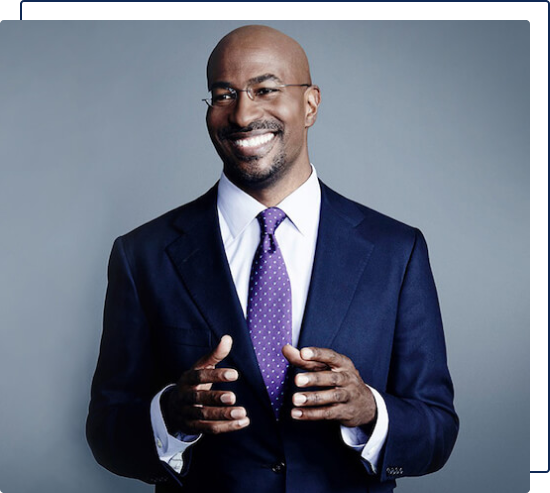
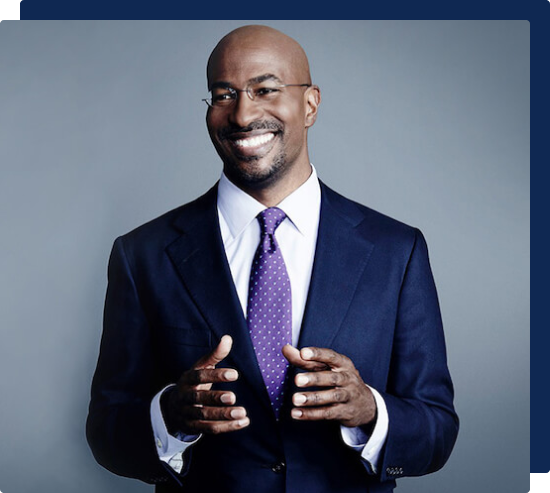
Design Changes made to page
Footer photo border changed.
Nav bar re-organized and animated.
Home page elements restructured.

Changed region(s): [[0.0309, 0.0, 1.0, 0.9736]]

diff --git a/index.html b/index.html
@@ -53,8 +53,8 @@
     </a>
       <ul id="myLinks">
         <li>Home</li>
-        <li>Services</li>
         <li>About</li>
+        <li>Services</li>        
         <li>Blog</li>
         <li id="contact">Contact</li>
       </ul>
@@ -63,7 +63,7 @@
     <div class="container">
       <section class="hero">
         <div class="text">
-          <h1>We help you grow your maritime company</h1>
+          <blockquote><h1>We help you grow your maritime company</h1></blockquote>
           <p>
             We help you to navigate the world of potential in your martine based
             company
@@ -73,39 +73,6 @@
         <div class="photo">
           <img src="Assets\Hero_photo.png" />          
         </div>
-      </section>
-
-      <section class="explore">
-        <h2>Explore how we can help you</h2>
-        <span>The ultimate help for your company</span>
-
-        
-          <div class="service-grid">
-            <div class="service">
-              <img src="Assets/Coaching.png" /><span>Coaching</span
-              ><span>The ultimate help for your company</span>
-            </div>
-            <div class="service">
-              <img src="Assets/Consulting.png" /><span>Consulting</span
-              ><span>The ultimate help for your company</span>
-            </div>
-            <div class="service">
-              <img src="Assets/Workshops.png" /><span>Workshops</span
-              ><span>The ultimate help for your company</span>
-            </div>
-          </div>
-        
-      </section>
-      
-      
-      <section id="philosophy">
-        
-        <h2>Our Philosophy</h2>
-        <p>
-          We break down barriers so teams can focus on what matters - working
-          together to create a working environment that they love.
-        </p>
-        
       </section>
 
       <section id="grow">
@@ -1161,6 +1128,41 @@
         </div>
       </section>
 
+      <section class="explore">
+        <h2>Explore how we can help you</h2>
+        <span>The ultimate help for your company</span>
+
+        
+          <div class="service-grid">
+            <div class="service">
+              <img src="Assets/Coaching.png" /><span>Coaching</span
+              ><span>The ultimate help for your company</span>
+            </div>
+            <div class="service">
+              <img src="Assets/Consulting.png" /><span>Consulting</span
+              ><span>The ultimate help for your company</span>
+            </div>
+            <div class="service">
+              <img src="Assets/Workshops.png" /><span>Workshops</span
+              ><span>The ultimate help for your company</span>
+            </div>
+          </div>
+        
+      </section>
+      
+      <!--
+      <section id="philosophy">
+        
+        <h2>Our Philosophy</h2>
+        <p>
+          We break down barriers so teams can focus on what matters - working
+          together to create a working environment that they love.
+        </p>
+        
+      </section>
+    -->
+      
+
       <section id="quote">
         <div>
           <img src="Assets/Footer Photo.png">
@@ -1168,7 +1170,7 @@
         <div>
           <figure>
             <blockquote>We help you to navigate the world of potential in your martine based company</blockquote>
-            <figcaption>Name Person</figcaption>
+            <figcaption>Our Philosophy</figcaption>
           </figure>
         </div>
       </section>

diff --git a/styles.css b/styles.css
@@ -36,7 +36,7 @@ nav {
     display: flex;
     justify-content: space-between;
     align-items: center;
-    color: hsla(0, 0%, 100%, 0.8);
+    color: hsla(0, 0%, 100%, 1);
     height: 60px;
     position: fixed;
     z-index: 3;
@@ -56,11 +56,38 @@ nav ul {
 nav li {
     list-style: none;
     transition: 0.3s;
+    display: block;
+    }
+
+nav li::after {
+    content: '';
+    height: 3px;
+    background-color: white;    
+    width: 70px;
+    position: absolute;
+    bottom: 13px;
+    display: block;
+    transform: scaleX(0);
+    transition: transform 0.25s linear;
+    transform-origin: bottom right;
 }
 
-nav li:hover {
-    color: hsla(0, 0%, 100%, 1)
+nav li:hover::after {
+    transform: scaleX(1);
+    transition: transform 0.25s linear;
+    transform-origin: bottom left;
+    
 }
+/*CHANGE THIS TO LINKS WHEN THEY ARE READY*/
+li:hover {
+    cursor: pointer;
+}
+button:hover {
+    cursor: pointer;
+}
+
+button
+
 
 #contact {
     display: none;

diff --git a/home.css b/home.css
@@ -6,13 +6,16 @@
   align-items: center;
 }
 
+
+
 h1 {
   font-weight: 600;
   font-size: 64px;
   line-height: 77px;
   color: white;
-  margin-bottom: 1.1111rem;
+  margin-bottom: 1.1111rem;     
 }
+
 
 h2 {
   font-weight: 600;
@@ -147,7 +150,7 @@ h2 + span {
 
 .explore {
   width: 100%;
-  margin-top: 10%;
+  margin-top: 5%;
   display: flex;
   flex-direction: column;
   align-items: center;
